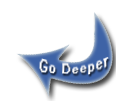
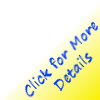
Updates to Go Deeper Link

diff --git a/vufind/web/interface/themes/academic/css/consolidated.min.css b/vufind/web/interface/themes/academic/css/consolidated.min.css
@@ -306,7 +306,7 @@ td.centered{text-align:center;background-image:none}.objectLabel{font-weight:bol
 p{color:green;font-weight:bold}.fieldUpdated, .fieldUpdated
 p{color:blue;font-weight:bold}.objectDeleted td, .objectDeleted td
 p{color:red;font-weight:bold;text-decoration:line-through}.amazonLink{font-size:11px;color:#666}.amazonLink
-hover{color:#039}.godeeper{float:right;z-index:2;position:absolute;right:-9px;bottom:-20px}#goDeeperContent{position:absolute;left:0px;right:0px;top:30px;bottom:0px;padding:5px}#goDeeperLinks{width:150px;border-right:solid 1px #011753;text-align:left;position:absolute;left:5px;bottom:0px;top:0px}.goDeeperLink{width:150px;text-align:left}#goDeeperOutput{position:absolute;left:165px;right:0px;bottom:0px;top:0px;text-align:left;overflow:auto}.selectTitle{float:left;width:15px}.requestSelectedItems{display:none}div.listEntryLeft{width:500px;float:left}div.listEntryRight{width:225px;display:inline-block}.suggestionLabel{width:90px;display:inline-block;vertical-align:top}.searchHomeContent{text-align:center}#ft div.location_info, #ft
+hover{color:#039}.godeeper{float:right;z-index:2;position:absolute;right:4px;bottom:4px}#goDeeperContent{position:absolute;left:0px;right:0px;top:30px;bottom:0px;padding:5px}#goDeeperLinks{width:150px;border-right:solid 1px #011753;text-align:left;position:absolute;left:5px;bottom:0px;top:0px}.goDeeperLink{width:150px;text-align:left}#goDeeperOutput{position:absolute;left:165px;right:0px;bottom:0px;top:0px;text-align:left;overflow:auto}.selectTitle{float:left;width:15px}.requestSelectedItems{display:none}div.listEntryLeft{width:500px;float:left}div.listEntryRight{width:225px;display:inline-block}.suggestionLabel{width:90px;display:inline-block;vertical-align:top}.searchHomeContent{text-align:center}#ft div.location_info, #ft
 div.version_info{width:100%;font-size:10px}.issue-summary-location{margin-top:5px;font-size:16px;font-weight:bold;color:#FFF;background-color:#3E63A6;padding:3px
 0px 3px 15px;-moz-border-radius-topleft:5px;-webkit-border-top-left-radius:5px;-moz-border-radius-topright:5px;-webkit-border-top-right-radius:5px}.issue-summary-details{color:#FFF;background-color:#3E63A6;padding:3px
 0px 3px 15px}.issue-summary-holdings{border:2px

diff --git a/vufind/web/interface/themes/adams/css/consolidated.min.css b/vufind/web/interface/themes/adams/css/consolidated.min.css
@@ -306,7 +306,7 @@ td.centered{text-align:center;background-image:none}.objectLabel{font-weight:bol
 p{color:green;font-weight:bold}.fieldUpdated, .fieldUpdated
 p{color:blue;font-weight:bold}.objectDeleted td, .objectDeleted td
 p{color:red;font-weight:bold;text-decoration:line-through}.amazonLink{font-size:11px;color:#666}.amazonLink
-hover{color:#039}.godeeper{float:right;z-index:2;position:absolute;right:-9px;bottom:-20px}#goDeeperContent{position:absolute;left:0px;right:0px;top:30px;bottom:0px;padding:5px}#goDeeperLinks{width:150px;border-right:solid 1px #011753;text-align:left;position:absolute;left:5px;bottom:0px;top:0px}.goDeeperLink{width:150px;text-align:left}#goDeeperOutput{position:absolute;left:165px;right:0px;bottom:0px;top:0px;text-align:left;overflow:auto}.selectTitle{float:left;width:15px}.requestSelectedItems{display:none}div.listEntryLeft{width:500px;float:left}div.listEntryRight{width:225px;display:inline-block}.suggestionLabel{width:90px;display:inline-block;vertical-align:top}.searchHomeContent{text-align:center}#ft div.location_info, #ft
+hover{color:#039}.godeeper{float:right;z-index:2;position:absolute;right:4px;bottom:4px}#goDeeperContent{position:absolute;left:0px;right:0px;top:30px;bottom:0px;padding:5px}#goDeeperLinks{width:150px;border-right:solid 1px #011753;text-align:left;position:absolute;left:5px;bottom:0px;top:0px}.goDeeperLink{width:150px;text-align:left}#goDeeperOutput{position:absolute;left:165px;right:0px;bottom:0px;top:0px;text-align:left;overflow:auto}.selectTitle{float:left;width:15px}.requestSelectedItems{display:none}div.listEntryLeft{width:500px;float:left}div.listEntryRight{width:225px;display:inline-block}.suggestionLabel{width:90px;display:inline-block;vertical-align:top}.searchHomeContent{text-align:center}#ft div.location_info, #ft
 div.version_info{width:100%;font-size:10px}.issue-summary-location{margin-top:5px;font-size:16px;font-weight:bold;color:#FFF;background-color:#3E63A6;padding:3px
 0px 3px 15px;-moz-border-radius-topleft:5px;-webkit-border-top-left-radius:5px;-moz-border-radius-topright:5px;-webkit-border-top-right-radius:5px}.issue-summary-details{color:#FFF;background-color:#3E63A6;padding:3px
 0px 3px 15px}.issue-summary-holdings{border:2px

diff --git a/vufind/web/interface/themes/aspen/css/consolidated.min.css b/vufind/web/interface/themes/aspen/css/consolidated.min.css
@@ -306,7 +306,7 @@ td.centered{text-align:center;background-image:none}.objectLabel{font-weight:bol
 p{color:green;font-weight:bold}.fieldUpdated, .fieldUpdated
 p{color:blue;font-weight:bold}.objectDeleted td, .objectDeleted td
 p{color:red;font-weight:bold;text-decoration:line-through}.amazonLink{font-size:11px;color:#666}.amazonLink
-hover{color:#039}.godeeper{float:right;z-index:2;position:absolute;right:-9px;bottom:-20px}#goDeeperContent{position:absolute;left:0px;right:0px;top:30px;bottom:0px;padding:5px}#goDeeperLinks{width:150px;border-right:solid 1px #011753;text-align:left;position:absolute;left:5px;bottom:0px;top:0px}.goDeeperLink{width:150px;text-align:left}#goDeeperOutput{position:absolute;left:165px;right:0px;bottom:0px;top:0px;text-align:left;overflow:auto}.selectTitle{float:left;width:15px}.requestSelectedItems{display:none}div.listEntryLeft{width:500px;float:left}div.listEntryRight{width:225px;display:inline-block}.suggestionLabel{width:90px;display:inline-block;vertical-align:top}.searchHomeContent{text-align:center}#ft div.location_info, #ft
+hover{color:#039}.godeeper{float:right;z-index:2;position:absolute;right:4px;bottom:4px}#goDeeperContent{position:absolute;left:0px;right:0px;top:30px;bottom:0px;padding:5px}#goDeeperLinks{width:150px;border-right:solid 1px #011753;text-align:left;position:absolute;left:5px;bottom:0px;top:0px}.goDeeperLink{width:150px;text-align:left}#goDeeperOutput{position:absolute;left:165px;right:0px;bottom:0px;top:0px;text-align:left;overflow:auto}.selectTitle{float:left;width:15px}.requestSelectedItems{display:none}div.listEntryLeft{width:500px;float:left}div.listEntryRight{width:225px;display:inline-block}.suggestionLabel{width:90px;display:inline-block;vertical-align:top}.searchHomeContent{text-align:center}#ft div.location_info, #ft
 div.version_info{width:100%;font-size:10px}.issue-summary-location{margin-top:5px;font-size:16px;font-weight:bold;color:#FFF;background-color:#3E63A6;padding:3px
 0px 3px 15px;-moz-border-radius-topleft:5px;-webkit-border-top-left-radius:5px;-moz-border-radius-topright:5px;-webkit-border-top-right-radius:5px}.issue-summary-details{color:#FFF;background-color:#3E63A6;padding:3px
 0px 3px 15px}.issue-summary-holdings{border:2px

diff --git a/vufind/web/interface/themes/basalt/css/consolidated.min.css b/vufind/web/interface/themes/basalt/css/consolidated.min.css
@@ -306,7 +306,7 @@ td.centered{text-align:center;background-image:none}.objectLabel{font-weight:bol
 p{color:green;font-weight:bold}.fieldUpdated, .fieldUpdated
 p{color:blue;font-weight:bold}.objectDeleted td, .objectDeleted td
 p{color:red;font-weight:bold;text-decoration:line-through}.amazonLink{font-size:11px;color:#666}.amazonLink
-hover{color:#039}.godeeper{float:right;z-index:2;position:absolute;right:-9px;bottom:-20px}#goDeeperContent{position:absolute;left:0px;right:0px;top:30px;bottom:0px;padding:5px}#goDeeperLinks{width:150px;border-right:solid 1px #011753;text-align:left;position:absolute;left:5px;bottom:0px;top:0px}.goDeeperLink{width:150px;text-align:left}#goDeeperOutput{position:absolute;left:165px;right:0px;bottom:0px;top:0px;text-align:left;overflow:auto}.selectTitle{float:left;width:15px}.requestSelectedItems{display:none}div.listEntryLeft{width:500px;float:left}div.listEntryRight{width:225px;display:inline-block}.suggestionLabel{width:90px;display:inline-block;vertical-align:top}.searchHomeContent{text-align:center}#ft div.location_info, #ft
+hover{color:#039}.godeeper{float:right;z-index:2;position:absolute;right:4px;bottom:4px}#goDeeperContent{position:absolute;left:0px;right:0px;top:30px;bottom:0px;padding:5px}#goDeeperLinks{width:150px;border-right:solid 1px #011753;text-align:left;position:absolute;left:5px;bottom:0px;top:0px}.goDeeperLink{width:150px;text-align:left}#goDeeperOutput{position:absolute;left:165px;right:0px;bottom:0px;top:0px;text-align:left;overflow:auto}.selectTitle{float:left;width:15px}.requestSelectedItems{display:none}div.listEntryLeft{width:500px;float:left}div.listEntryRight{width:225px;display:inline-block}.suggestionLabel{width:90px;display:inline-block;vertical-align:top}.searchHomeContent{text-align:center}#ft div.location_info, #ft
 div.version_info{width:100%;font-size:10px}.issue-summary-location{margin-top:5px;font-size:16px;font-weight:bold;color:#FFF;background-color:#3E63A6;padding:3px
 0px 3px 15px;-moz-border-radius-topleft:5px;-webkit-border-top-left-radius:5px;-moz-border-radius-topright:5px;-webkit-border-top-right-radius:5px}.issue-summary-details{color:#FFF;background-color:#3E63A6;padding:3px
 0px 3px 15px}.issue-summary-holdings{border:2px

diff --git a/vufind/web/interface/themes/ccu/css/consolidated.min.css b/vufind/web/interface/themes/ccu/css/consolidated.min.css
@@ -306,7 +306,7 @@ td.centered{text-align:center;background-image:none}.objectLabel{font-weight:bol
 p{color:green;font-weight:bold}.fieldUpdated, .fieldUpdated
 p{color:blue;font-weight:bold}.objectDeleted td, .objectDeleted td
 p{color:red;font-weight:bold;text-decoration:line-through}.amazonLink{font-size:11px;color:#666}.amazonLink
-hover{color:#039}.godeeper{float:right;z-index:2;position:absolute;right:-9px;bottom:-20px}#goDeeperContent{position:absolute;left:0px;right:0px;top:30px;bottom:0px;padding:5px}#goDeeperLinks{width:150px;border-right:solid 1px #011753;text-align:left;position:absolute;left:5px;bottom:0px;top:0px}.goDeeperLink{width:150px;text-align:left}#goDeeperOutput{position:absolute;left:165px;right:0px;bottom:0px;top:0px;text-align:left;overflow:auto}.selectTitle{float:left;width:15px}.requestSelectedItems{display:none}div.listEntryLeft{width:500px;float:left}div.listEntryRight{width:225px;display:inline-block}.suggestionLabel{width:90px;display:inline-block;vertical-align:top}.searchHomeContent{text-align:center}#ft div.location_info, #ft
+hover{color:#039}.godeeper{float:right;z-index:2;position:absolute;right:4px;bottom:4px}#goDeeperContent{position:absolute;left:0px;right:0px;top:30px;bottom:0px;padding:5px}#goDeeperLinks{width:150px;border-right:solid 1px #011753;text-align:left;position:absolute;left:5px;bottom:0px;top:0px}.goDeeperLink{width:150px;text-align:left}#goDeeperOutput{position:absolute;left:165px;right:0px;bottom:0px;top:0px;text-align:left;overflow:auto}.selectTitle{float:left;width:15px}.requestSelectedItems{display:none}div.listEntryLeft{width:500px;float:left}div.listEntryRight{width:225px;display:inline-block}.suggestionLabel{width:90px;display:inline-block;vertical-align:top}.searchHomeContent{text-align:center}#ft div.location_info, #ft
 div.version_info{width:100%;font-size:10px}.issue-summary-location{margin-top:5px;font-size:16px;font-weight:bold;color:#FFF;background-color:#3E63A6;padding:3px
 0px 3px 15px;-moz-border-radius-topleft:5px;-webkit-border-top-left-radius:5px;-moz-border-radius-topright:5px;-webkit-border-top-right-radius:5px}.issue-summary-details{color:#FFF;background-color:#3E63A6;padding:3px
 0px 3px 15px}.issue-summary-holdings{border:2px

diff --git a/vufind/web/interface/themes/cmc/css/consolidated.min.css b/vufind/web/interface/themes/cmc/css/consolidated.min.css
@@ -306,7 +306,7 @@ td.centered{text-align:center;background-image:none}.objectLabel{font-weight:bol
 p{color:green;font-weight:bold}.fieldUpdated, .fieldUpdated
 p{color:blue;font-weight:bold}.objectDeleted td, .objectDeleted td
 p{color:red;font-weight:bold;text-decoration:line-through}.amazonLink{font-size:11px;color:#666}.amazonLink
-hover{color:#039}.godeeper{float:right;z-index:2;position:absolute;right:-9px;bottom:-20px}#goDeeperContent{position:absolute;left:0px;right:0px;top:30px;bottom:0px;padding:5px}#goDeeperLinks{width:150px;border-right:solid 1px #011753;text-align:left;position:absolute;left:5px;bottom:0px;top:0px}.goDeeperLink{width:150px;text-align:left}#goDeeperOutput{position:absolute;left:165px;right:0px;bottom:0px;top:0px;text-align:left;overflow:auto}.selectTitle{float:left;width:15px}.requestSelectedItems{display:none}div.listEntryLeft{width:500px;float:left}div.listEntryRight{width:225px;display:inline-block}.suggestionLabel{width:90px;display:inline-block;vertical-align:top}.searchHomeContent{text-align:center}#ft div.location_info, #ft
+hover{color:#039}.godeeper{float:right;z-index:2;position:absolute;right:4px;bottom:4px}#goDeeperContent{position:absolute;left:0px;right:0px;top:30px;bottom:0px;padding:5px}#goDeeperLinks{width:150px;border-right:solid 1px #011753;text-align:left;position:absolute;left:5px;bottom:0px;top:0px}.goDeeperLink{width:150px;text-align:left}#goDeeperOutput{position:absolute;left:165px;right:0px;bottom:0px;top:0px;text-align:left;overflow:auto}.selectTitle{float:left;width:15px}.requestSelectedItems{display:none}div.listEntryLeft{width:500px;float:left}div.listEntryRight{width:225px;display:inline-block}.suggestionLabel{width:90px;display:inline-block;vertical-align:top}.searchHomeContent{text-align:center}#ft div.location_info, #ft
 div.version_info{width:100%;font-size:10px}.issue-summary-location{margin-top:5px;font-size:16px;font-weight:bold;color:#FFF;background-color:#3E63A6;padding:3px
 0px 3px 15px;-moz-border-radius-topleft:5px;-webkit-border-top-left-radius:5px;-moz-border-radius-topright:5px;-webkit-border-top-right-radius:5px}.issue-summary-details{color:#FFF;background-color:#3E63A6;padding:3px
 0px 3px 15px}.issue-summary-holdings{border:2px

diff --git a/vufind/web/interface/themes/englewood/css/consolidated.min.css b/vufind/web/interface/themes/englewood/css/consolidated.min.css
@@ -306,7 +306,7 @@ td.centered{text-align:center;background-image:none}.objectLabel{font-weight:bol
 p{color:green;font-weight:bold}.fieldUpdated, .fieldUpdated
 p{color:blue;font-weight:bold}.objectDeleted td, .objectDeleted td
 p{color:red;font-weight:bold;text-decoration:line-through}.amazonLink{font-size:11px;color:#666}.amazonLink
-hover{color:#039}.godeeper{float:right;z-index:2;position:absolute;right:-9px;bottom:-20px}#goDeeperContent{position:absolute;left:0px;right:0px;top:30px;bottom:0px;padding:5px}#goDeeperLinks{width:150px;border-right:solid 1px #011753;text-align:left;position:absolute;left:5px;bottom:0px;top:0px}.goDeeperLink{width:150px;text-align:left}#goDeeperOutput{position:absolute;left:165px;right:0px;bottom:0px;top:0px;text-align:left;overflow:auto}.selectTitle{float:left;width:15px}.requestSelectedItems{display:none}div.listEntryLeft{width:500px;float:left}div.listEntryRight{width:225px;display:inline-block}.suggestionLabel{width:90px;display:inline-block;vertical-align:top}.searchHomeContent{text-align:center}#ft div.location_info, #ft
+hover{color:#039}.godeeper{float:right;z-index:2;position:absolute;right:4px;bottom:4px}#goDeeperContent{position:absolute;left:0px;right:0px;top:30px;bottom:0px;padding:5px}#goDeeperLinks{width:150px;border-right:solid 1px #011753;text-align:left;position:absolute;left:5px;bottom:0px;top:0px}.goDeeperLink{width:150px;text-align:left}#goDeeperOutput{position:absolute;left:165px;right:0px;bottom:0px;top:0px;text-align:left;overflow:auto}.selectTitle{float:left;width:15px}.requestSelectedItems{display:none}div.listEntryLeft{width:500px;float:left}div.listEntryRight{width:225px;display:inline-block}.suggestionLabel{width:90px;display:inline-block;vertical-align:top}.searchHomeContent{text-align:center}#ft div.location_info, #ft
 div.version_info{width:100%;font-size:10px}.issue-summary-location{margin-top:5px;font-size:16px;font-weight:bold;color:#FFF;background-color:#3E63A6;padding:3px
 0px 3px 15px;-moz-border-radius-topleft:5px;-webkit-border-top-left-radius:5px;-moz-border-radius-topright:5px;-webkit-border-top-right-radius:5px}.issue-summary-details{color:#FFF;background-color:#3E63A6;padding:3px
 0px 3px 15px}.issue-summary-holdings{border:2px

diff --git a/vufind/web/interface/themes/evld/css/consolidated.min.css b/vufind/web/interface/themes/evld/css/consolidated.min.css
@@ -306,7 +306,7 @@ td.centered{text-align:center;background-image:none}.objectLabel{font-weight:bol
 p{color:green;font-weight:bold}.fieldUpdated, .fieldUpdated
 p{color:blue;font-weight:bold}.objectDeleted td, .objectDeleted td
 p{color:red;font-weight:bold;text-decoration:line-through}.amazonLink{font-size:11px;color:#666}.amazonLink
-hover{color:#039}.godeeper{float:right;z-index:2;position:absolute;right:-9px;bottom:-20px}#goDeeperContent{position:absolute;left:0px;right:0px;top:30px;bottom:0px;padding:5px}#goDeeperLinks{width:150px;border-right:solid 1px #011753;text-align:left;position:absolute;left:5px;bottom:0px;top:0px}.goDeeperLink{width:150px;text-align:left}#goDeeperOutput{position:absolute;left:165px;right:0px;bottom:0px;top:0px;text-align:left;overflow:auto}.selectTitle{float:left;width:15px}.requestSelectedItems{display:none}div.listEntryLeft{width:500px;float:left}div.listEntryRight{width:225px;display:inline-block}.suggestionLabel{width:90px;display:inline-block;vertical-align:top}.searchHomeContent{text-align:center}#ft div.location_info, #ft
+hover{color:#039}.godeeper{float:right;z-index:2;position:absolute;right:4px;bottom:4px}#goDeeperContent{position:absolute;left:0px;right:0px;top:30px;bottom:0px;padding:5px}#goDeeperLinks{width:150px;border-right:solid 1px #011753;text-align:left;position:absolute;left:5px;bottom:0px;top:0px}.goDeeperLink{width:150px;text-align:left}#goDeeperOutput{position:absolute;left:165px;right:0px;bottom:0px;top:0px;text-align:left;overflow:auto}.selectTitle{float:left;width:15px}.requestSelectedItems{display:none}div.listEntryLeft{width:500px;float:left}div.listEntryRight{width:225px;display:inline-block}.suggestionLabel{width:90px;display:inline-block;vertical-align:top}.searchHomeContent{text-align:center}#ft div.location_info, #ft
 div.version_info{width:100%;font-size:10px}.issue-summary-location{margin-top:5px;font-size:16px;font-weight:bold;color:#FFF;background-color:#3E63A6;padding:3px
 0px 3px 15px;-moz-border-radius-topleft:5px;-webkit-border-top-left-radius:5px;-moz-border-radius-topright:5px;-webkit-border-top-right-radius:5px}.issue-summary-details{color:#FFF;background-color:#3E63A6;padding:3px
 0px 3px 15px}.issue-summary-holdings{border:2px

diff --git a/vufind/web/interface/themes/garfield/css/consolidated.min.css b/vufind/web/interface/themes/garfield/css/consolidated.min.css
@@ -306,7 +306,7 @@ td.centered{text-align:center;background-image:none}.objectLabel{font-weight:bol
 p{color:green;font-weight:bold}.fieldUpdated, .fieldUpdated
 p{color:blue;font-weight:bold}.objectDeleted td, .objectDeleted td
 p{color:red;font-weight:bold;text-decoration:line-through}.amazonLink{font-size:11px;color:#666}.amazonLink
-hover{color:#039}.godeeper{float:right;z-index:2;position:absolute;right:-9px;bottom:-20px}#goDeeperContent{position:absolute;left:0px;right:0px;top:30px;bottom:0px;padding:5px}#goDeeperLinks{width:150px;border-right:solid 1px #011753;text-align:left;position:absolute;left:5px;bottom:0px;top:0px}.goDeeperLink{width:150px;text-align:left}#goDeeperOutput{position:absolute;left:165px;right:0px;bottom:0px;top:0px;text-align:left;overflow:auto}.selectTitle{float:left;width:15px}.requestSelectedItems{display:none}div.listEntryLeft{width:500px;float:left}div.listEntryRight{width:225px;display:inline-block}.suggestionLabel{width:90px;display:inline-block;vertical-align:top}.searchHomeContent{text-align:center}#ft div.location_info, #ft
+hover{color:#039}.godeeper{float:right;z-index:2;position:absolute;right:4px;bottom:4px}#goDeeperContent{position:absolute;left:0px;right:0px;top:30px;bottom:0px;padding:5px}#goDeeperLinks{width:150px;border-right:solid 1px #011753;text-align:left;position:absolute;left:5px;bottom:0px;top:0px}.goDeeperLink{width:150px;text-align:left}#goDeeperOutput{position:absolute;left:165px;right:0px;bottom:0px;top:0px;text-align:left;overflow:auto}.selectTitle{float:left;width:15px}.requestSelectedItems{display:none}div.listEntryLeft{width:500px;float:left}div.listEntryRight{width:225px;display:inline-block}.suggestionLabel{width:90px;display:inline-block;vertical-align:top}.searchHomeContent{text-align:center}#ft div.location_info, #ft
 div.version_info{width:100%;font-size:10px}.issue-summary-location{margin-top:5px;font-size:16px;font-weight:bold;color:#FFF;background-color:#3E63A6;padding:3px
 0px 3px 15px;-moz-border-radius-topleft:5px;-webkit-border-top-left-radius:5px;-moz-border-radius-topright:5px;-webkit-border-top-right-radius:5px}.issue-summary-details{color:#FFF;background-color:#3E63A6;padding:3px
 0px 3px 15px}.issue-summary-holdings{border:2px

diff --git a/vufind/web/interface/themes/gcld/css/consolidated.min.css b/vufind/web/interface/themes/gcld/css/consolidated.min.css
@@ -306,7 +306,7 @@ td.centered{text-align:center;background-image:none}.objectLabel{font-weight:bol
 p{color:green;font-weight:bold}.fieldUpdated, .fieldUpdated
 p{color:blue;font-weight:bold}.objectDeleted td, .objectDeleted td
 p{color:red;font-weight:bold;text-decoration:line-through}.amazonLink{font-size:11px;color:#666}.amazonLink
-hover{color:#039}.godeeper{float:right;z-index:2;position:absolute;right:-9px;bottom:-20px}#goDeeperContent{position:absolute;left:0px;right:0px;top:30px;bottom:0px;padding:5px}#goDeeperLinks{width:150px;border-right:solid 1px #011753;text-align:left;position:absolute;left:5px;bottom:0px;top:0px}.goDeeperLink{width:150px;text-align:left}#goDeeperOutput{position:absolute;left:165px;right:0px;bottom:0px;top:0px;text-align:left;overflow:auto}.selectTitle{float:left;width:15px}.requestSelectedItems{display:none}div.listEntryLeft{width:500px;float:left}div.listEntryRight{width:225px;display:inline-block}.suggestionLabel{width:90px;display:inline-block;vertical-align:top}.searchHomeContent{text-align:center}#ft div.location_info, #ft
+hover{color:#039}.godeeper{float:right;z-index:2;position:absolute;right:4px;bottom:4px}#goDeeperContent{position:absolute;left:0px;right:0px;top:30px;bottom:0px;padding:5px}#goDeeperLinks{width:150px;border-right:solid 1px #011753;text-align:left;position:absolute;left:5px;bottom:0px;top:0px}.goDeeperLink{width:150px;text-align:left}#goDeeperOutput{position:absolute;left:165px;right:0px;bottom:0px;top:0px;text-align:left;overflow:auto}.selectTitle{float:left;width:15px}.requestSelectedItems{display:none}div.listEntryLeft{width:500px;float:left}div.listEntryRight{width:225px;display:inline-block}.suggestionLabel{width:90px;display:inline-block;vertical-align:top}.searchHomeContent{text-align:center}#ft div.location_info, #ft
 div.version_info{width:100%;font-size:10px}.issue-summary-location{margin-top:5px;font-size:16px;font-weight:bold;color:#FFF;background-color:#3E63A6;padding:3px
 0px 3px 15px;-moz-border-radius-topleft:5px;-webkit-border-top-left-radius:5px;-moz-border-radius-topright:5px;-webkit-border-top-right-radius:5px}.issue-summary-details{color:#FFF;background-color:#3E63A6;padding:3px
 0px 3px 15px}.issue-summary-holdings{border:2px

diff --git a/vufind/web/interface/themes/gunnisonld/css/consolidated.min.css b/vufind/web/interface/themes/gunnisonld/css/consolidated.min.css
@@ -306,7 +306,7 @@ td.centered{text-align:center;background-image:none}.objectLabel{font-weight:bol
 p{color:green;font-weight:bold}.fieldUpdated, .fieldUpdated
 p{color:blue;font-weight:bold}.objectDeleted td, .objectDeleted td
 p{color:red;font-weight:bold;text-decoration:line-through}.amazonLink{font-size:11px;color:#666}.amazonLink
-hover{color:#039}.godeeper{float:right;z-index:2;position:absolute;right:-9px;bottom:-20px}#goDeeperContent{position:absolute;left:0px;right:0px;top:30px;bottom:0px;padding:5px}#goDeeperLinks{width:150px;border-right:solid 1px #011753;text-align:left;position:absolute;left:5px;bottom:0px;top:0px}.goDeeperLink{width:150px;text-align:left}#goDeeperOutput{position:absolute;left:165px;right:0px;bottom:0px;top:0px;text-align:left;overflow:auto}.selectTitle{float:left;width:15px}.requestSelectedItems{display:none}div.listEntryLeft{width:500px;float:left}div.listEntryRight{width:225px;display:inline-block}.suggestionLabel{width:90px;display:inline-block;vertical-align:top}.searchHomeContent{text-align:center}#ft div.location_info, #ft
+hover{color:#039}.godeeper{float:right;z-index:2;position:absolute;right:4px;bottom:4px}#goDeeperContent{position:absolute;left:0px;right:0px;top:30px;bottom:0px;padding:5px}#goDeeperLinks{width:150px;border-right:solid 1px #011753;text-align:left;position:absolute;left:5px;bottom:0px;top:0px}.goDeeperLink{width:150px;text-align:left}#goDeeperOutput{position:absolute;left:165px;right:0px;bottom:0px;top:0px;text-align:left;overflow:auto}.selectTitle{float:left;width:15px}.requestSelectedItems{display:none}div.listEntryLeft{width:500px;float:left}div.listEntryRight{width:225px;display:inline-block}.suggestionLabel{width:90px;display:inline-block;vertical-align:top}.searchHomeContent{text-align:center}#ft div.location_info, #ft
 div.version_info{width:100%;font-size:10px}.issue-summary-location{margin-top:5px;font-size:16px;font-weight:bold;color:#FFF;background-color:#3E63A6;padding:3px
 0px 3px 15px;-moz-border-radius-topleft:5px;-webkit-border-top-left-radius:5px;-moz-border-radius-topright:5px;-webkit-border-top-right-radius:5px}.issue-summary-details{color:#FFF;background-color:#3E63A6;padding:3px
 0px 3px 15px}.issue-summary-holdings{border:2px

diff --git a/vufind/web/interface/themes/marmot/css/consolidated.min.css b/vufind/web/interface/themes/marmot/css/consolidated.min.css
@@ -306,7 +306,7 @@ td.centered{text-align:center;background-image:none}.objectLabel{font-weight:bol
 p{color:green;font-weight:bold}.fieldUpdated, .fieldUpdated
 p{color:blue;font-weight:bold}.objectDeleted td, .objectDeleted td
 p{color:red;font-weight:bold;text-decoration:line-through}.amazonLink{font-size:11px;color:#666}.amazonLink
-hover{color:#039}.godeeper{float:right;z-index:2;position:absolute;right:-9px;bottom:-20px}#goDeeperContent{position:absolute;left:0px;right:0px;top:30px;bottom:0px;padding:5px}#goDeeperLinks{width:150px;border-right:solid 1px #011753;text-align:left;position:absolute;left:5px;bottom:0px;top:0px}.goDeeperLink{width:150px;text-align:left}#goDeeperOutput{position:absolute;left:165px;right:0px;bottom:0px;top:0px;text-align:left;overflow:auto}.selectTitle{float:left;width:15px}.requestSelectedItems{display:none}div.listEntryLeft{width:500px;float:left}div.listEntryRight{width:225px;display:inline-block}.suggestionLabel{width:90px;display:inline-block;vertical-align:top}.searchHomeContent{text-align:center}#ft div.location_info, #ft
+hover{color:#039}.godeeper{float:right;z-index:2;position:absolute;right:4px;bottom:4px}#goDeeperContent{position:absolute;left:0px;right:0px;top:30px;bottom:0px;padding:5px}#goDeeperLinks{width:150px;border-right:solid 1px #011753;text-align:left;position:absolute;left:5px;bottom:0px;top:0px}.goDeeperLink{width:150px;text-align:left}#goDeeperOutput{position:absolute;left:165px;right:0px;bottom:0px;top:0px;text-align:left;overflow:auto}.selectTitle{float:left;width:15px}.requestSelectedItems{display:none}div.listEntryLeft{width:500px;float:left}div.listEntryRight{width:225px;display:inline-block}.suggestionLabel{width:90px;display:inline-block;vertical-align:top}.searchHomeContent{text-align:center}#ft div.location_info, #ft
 div.version_info{width:100%;font-size:10px}.issue-summary-location{margin-top:5px;font-size:16px;font-weight:bold;color:#FFF;background-color:#3E63A6;padding:3px
 0px 3px 15px;-moz-border-radius-topleft:5px;-webkit-border-top-left-radius:5px;-moz-border-radius-topright:5px;-webkit-border-top-right-radius:5px}.issue-summary-details{color:#FFF;background-color:#3E63A6;padding:3px
 0px 3px 15px}.issue-summary-holdings{border:2px
